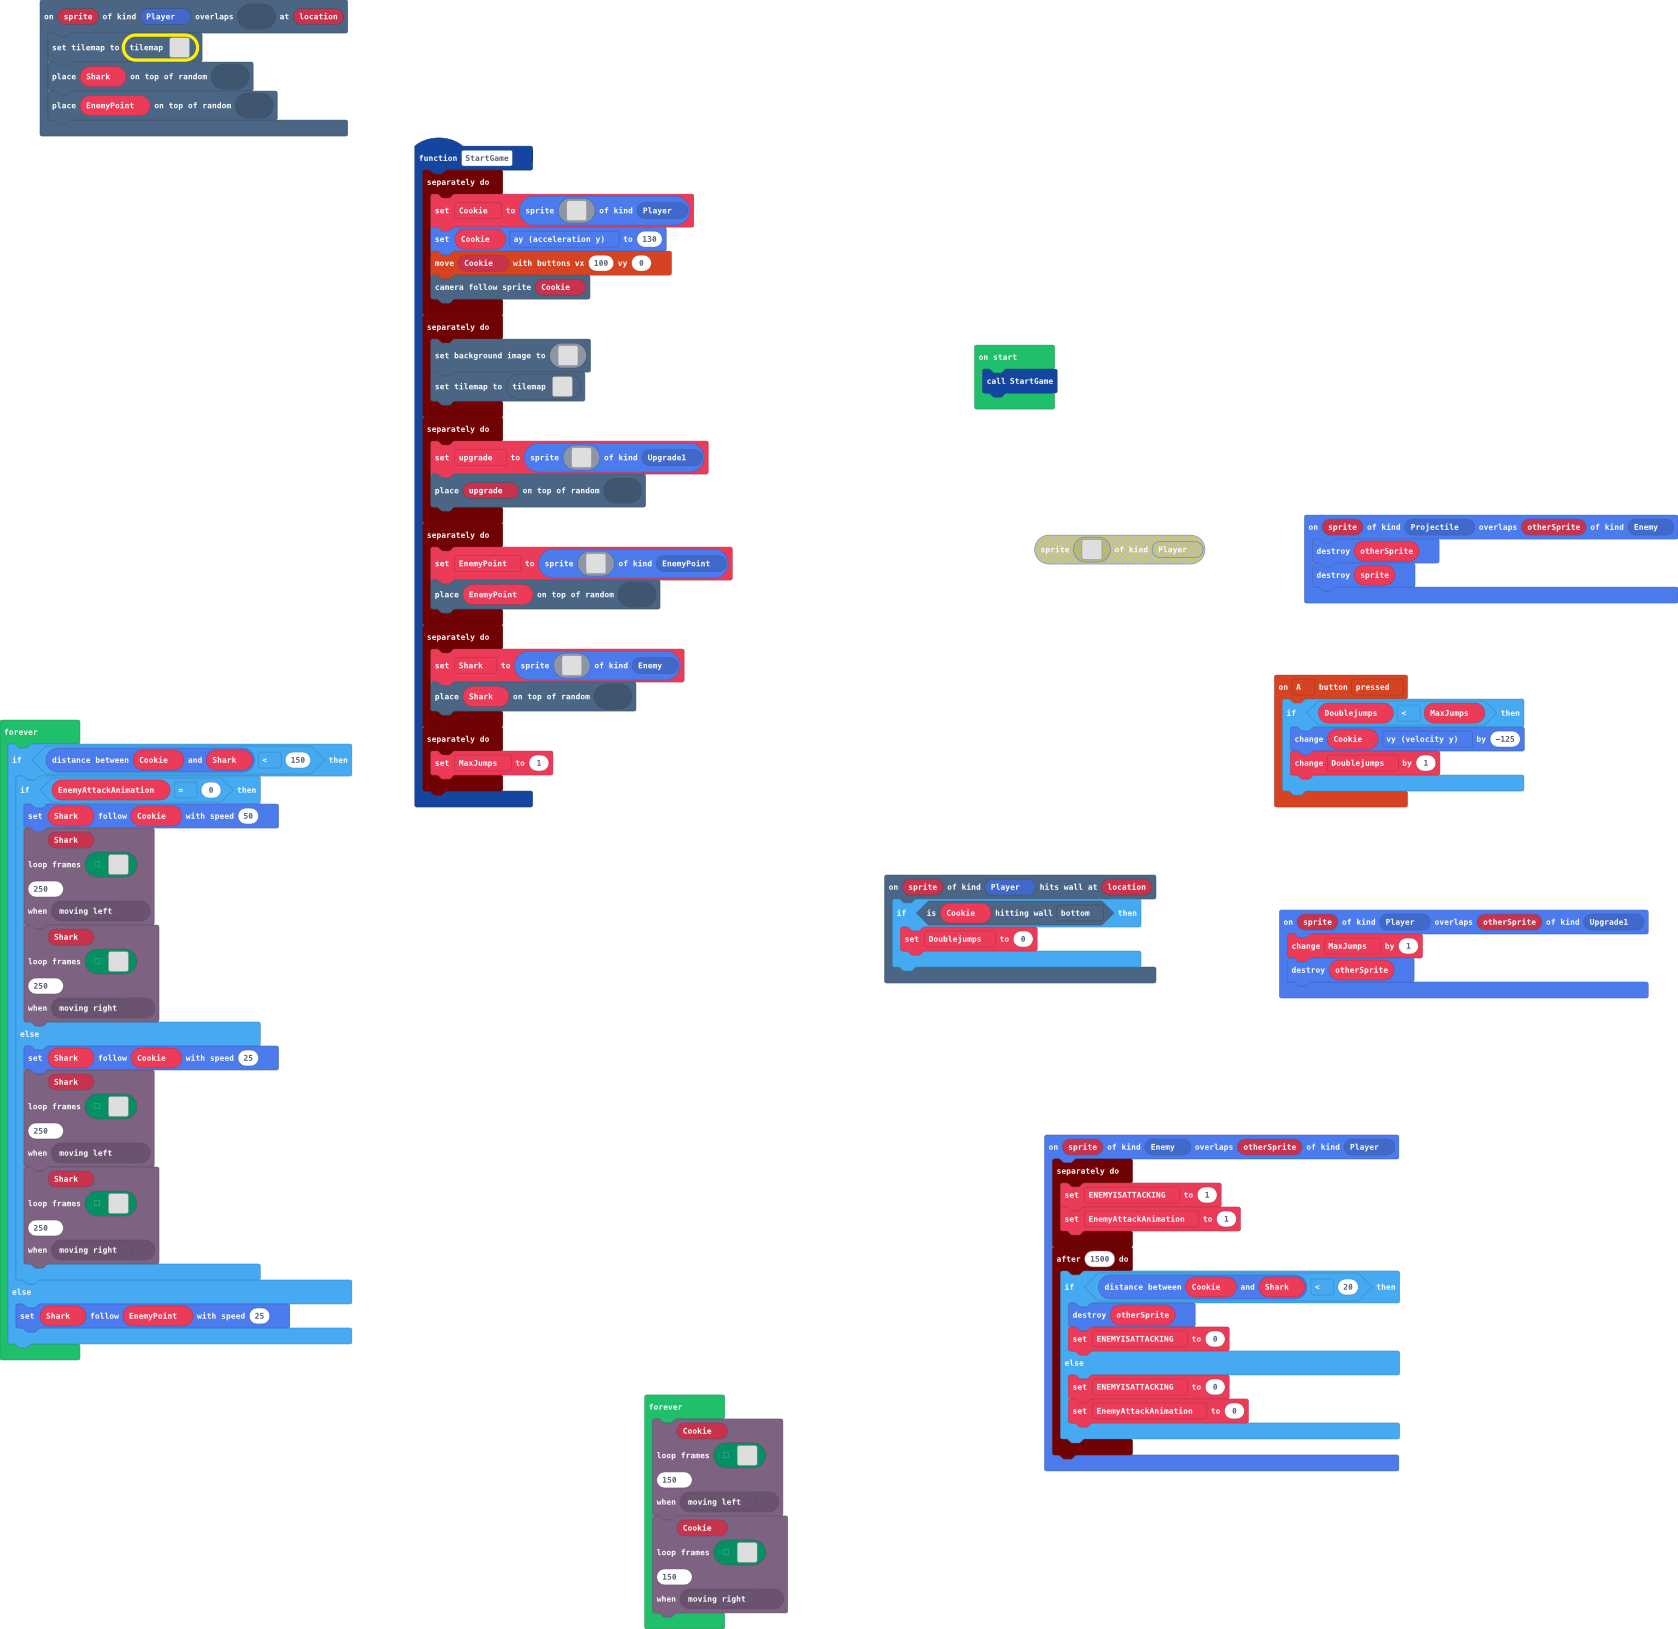
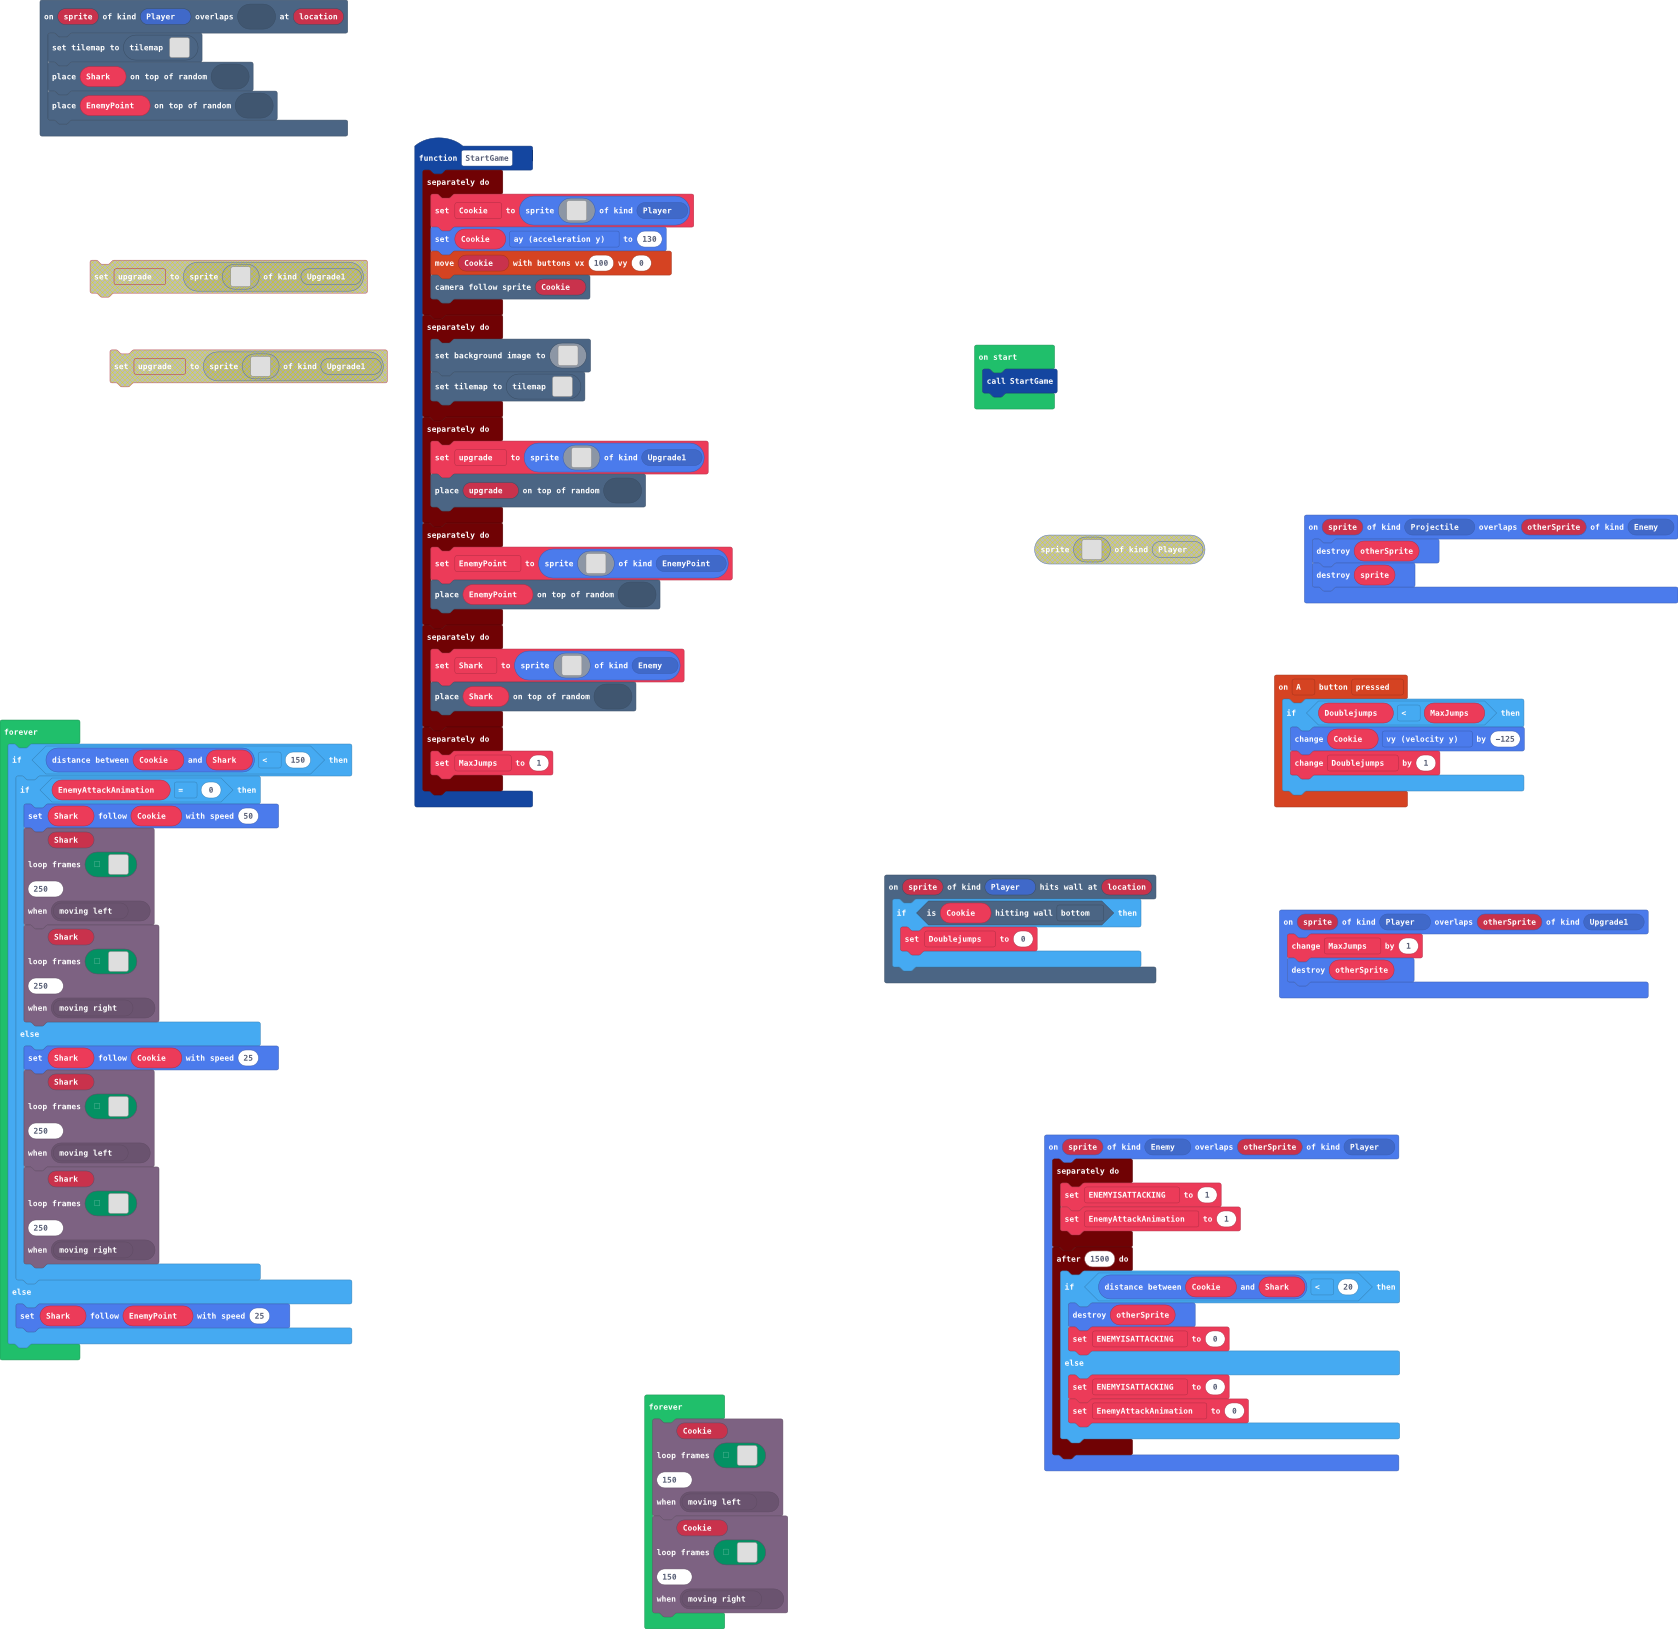
Update main.blocks, main.ts, tilemap.g.jres, tilemap.g.ts

Changed region(s): [[0.062, 0.2149, 0.2479, 0.2455], [0.031, 0.1535, 0.2169, 0.1842]]

diff --git a/tilemap.g.ts b/tilemap.g.ts
@@ -20,6 +20,8 @@ namespace myTiles {
     export const tile6 = image.ofBuffer(hex``);
     //% fixedInstance jres blockIdentity=images._tile
     export const tile9 = image.ofBuffer(hex``);
+    //% fixedInstance jres blockIdentity=images._tile
+    export const tile10 = image.ofBuffer(hex``);
 
     helpers._registerFactory("tilemap", function(name: string) {
         switch(helpers.stringTrim(name)) {
@@ -62,26 +64,26 @@ namespace myTiles {
 . . . . . . . . . . . . . . . . 
 `, [myTiles.transparency16], TileScale.Sixteen);
             case "level4":
-            case "level4":return tiles.createTilemap(hex`1000100000000000000000000000000000000000000000000000000000000000000000000000000000000000000000000000000000000000000000000000000000000000000000000000000000000000000000000000000000000000000000000000000000000000000000000000000000000000000000000000000000000000000000000000000000000000000000000000000000000000000000000000000000000000000000000000000000000000000000000000000000000000000000000000000000000000000000000000000000000000000000000000000000000000000000000000000000000000000000000000000000000000000000000000000000000000`, img`
-. . . . . . . . . . . . . . . . 
-. . . . . . . . . . . . . . . . 
-. . . . . . . . . . . . . . . . 
-. . . . . . . . . . . . . . . . 
-. . . . . . . . . . . . . . . . 
-. . . . . . . . . . . . . . . . 
-. . . . . . . . . . . . . . . . 
-. . . . . . . . . . . . . . . . 
-. . . . . . . . . . . . . . . . 
-. . . . . . . . . . . . . . . . 
-. . . . . . . . . . . . . . . . 
-. . . . . . . . . . . . . . . . 
-. . . . . . . . . . . . . . . . 
-. . . . . . . . . . . . . . . . 
-. . . . . . . . . . . . . . . . 
-. . . . . . . . . . . . . . . . 
-`, [myTiles.transparency16], TileScale.Sixteen);
+            case "level4":return tiles.createTilemap(hex`4000100000000000000000000000000000000000000000000000000000000000000000000000000000000000000000000000000000000000000000000000000000000000010101010101010101010101010101010101010101010101010101010101010101010101010101010101010101010101010101010101010101010101010101010000000000000000000000000000000000000000000000000000000000000000000000000000000000000000000000000000000000000000000000000000000000000000000000000000000000000000000000000000000000000000000000000000000000000000000000000000000000000000000000000000000000000000000000000000000000000000000000000000000000000000000000000000000000000000000000000000000000000000000000000000000000000000000000000101010101010101010101010101010101010101010101010101010101010101010101000000000000000000000000000000010101010101010101010101010100000000000000000000000000000000000000000000000000000000000000000000000000000000000000000000000000000000000000000000000000000000000000000000000000000000000000000000000000000000000000000000000000000000000000000000000000000000000000000000000000000000000000000000000000000000000000000000000000000000000000000000000000000000000000000000000000000000000000000000000000000000000000000000000000000000000000000000000000000000000000000000000000000000000000000000000000000000000000000000000000000000000000000000000000000000000000000000000000000000000000000000000000000000000000000000000000000000000000000000000000000000000000000000000000000000000000000101010101010101010101010101010101000000000000000001010101010101010101010101010101010000000000000000000000000000000000000000000000000000000000000000000000000000000000000000000000000000000000000000000000000000000000000000000000000000000000000000000000000000000000000000000000000000000000000000000000000000000000000000000000000000000000000000000000000000000000000000000000000000000000000000000000000000000000000000000000000000000000000000000000000000000000000000000000000000000000000000000000000000000000000000000001010101010101010101010101010101010101010101010101010101010101010101010101010101010101010101010101010101010101010101010101010101`, img`
+................................................................
+2222222222222222222222222222222222222222222222222222222222222222
+................................................................
+................................................................
+................................................................
+22222222222222222222222222222222222...............22222222222222
+................................................................
+................................................................
+................................................................
+................................................................
+................................................................
+22222222222222222........22222222222222222......................
+................................................................
+................................................................
+................................................................
+2222222222222222222222222222222222222222222222222222222222222222
+`, [myTiles.transparency16,myTiles.tile3], TileScale.Sixteen);
             case "level2":
-            case "level2":return tiles.createTilemap(hex`4000100000000000000000000000000000000000000000000000000000000000000000000000000000000000000000000000000000000000000000000000000000000000000000000000000000000000000000000000000000000000000000000000000000000000000000000000000000000000000000000000000000000000000000000000000000000000000000000000000000000000000000000000000000000000000000000000000000000000000004000000000000000000000000000000000000000000000000000000000000000000000000000000000000000000000000000000000000000000000000000000040000000000000000000000000000000000000000000000000000000000000000000000000000000000000000000000000000000000000000000000000000000400000000000000000000000000060000000000000000000000000000000000000000000000000000000000000000000000000000000000000000000000000004000000000000000000000000000000000002020202020202020202020202020202020202020202020000000000000002020204020202020202020202020202050202020202020202020202020202020202000000000000000000000000000000000000000000000000000000000000000000040000000000000000000000000000000000000000000000000000000000000000000000000000000000000000000000000000000000000000000000000000000400000000000000000300000000000000000000000000000000000000000000000000000000000000000000000000000000000000000000000000000000000004000000000000000000000000000000000000000000000000000000000000000000000000000000000000000000000000000000000000000000000000000000040000000000000000000000000000000000000000000000000000000000000000000000000000000000000000000000000000000000000000000000000000000400000000000000000000000000000000000000000000000000000000000002020202020202020202020000000000000202020202020202020202020202020205020200000000000000020202020202020202020202020202020202000000000000000000000000000000000000000000000000000000000000000000000000000000000000000000000000000000000000000100000000000000000000000000000000000000000000000000000000000000000000000000000000000000000000000000000000000000000000000000000000000000000000000000000002020202020202020202020202020202020202020202020202020202020202020202020202020202020202020202020202020202020202020202020202020202`, img`
+            case "level2":return tiles.createTilemap(hex`4000100001000000000000000000000000000000000000000000000000000000000000000000000000000000000000000000000000000000000000000000000000000000000000000000000000000000000000000000000000000000000000000000000000000000000000000000000000000000000000000000000000000000000000000000000000000000000000000000000000000000000000000000000000000000000000000000000000000000000004000000000000000000000000000000000000000000000000000000000000000000000000000000000000000000000000000000000000000000000000000000040000000000000000000000000000000000000000000000000000000000000000000000000000000000000000000000000000000000000000000000000000000400000000000000000000000000000000000000000000000006000000000000000000000000000000000000000000000000000000000000000000000000000004000000000000000000000000000000000002020202020202020202020202020202020202020202020000000000000002020204020202020202020202020202050202020202020202020202020202020202000000000000000000000000000000000000000000000000000000000000000000040000000000000000000000000000000000000000000000000000000000000000000000000000000000000000000000000000000000000000000000000000000400000100000000000300000000000000000000000000000000000000000000000000000000000000000000000000000000000000000000000000000000000004000000000000000000000000000000000000000000000000000000000000000000000000000000000000000000000000000000000000000000000000000000040000000000000000000000000000000000000000000000000000000000000000000000000000000000000000000000000000000000000000000000000000000400000000000000000000000000000000000000000000000000000000000002020202020202020202020000000000000202020202020202020202020202020205020200000000000000020202020202020202020202020202020202000000000000000000000000000000000000000000000000000000000000000000000000000000000000000000000000000000000000000000000000000000000000000000000000000000000000000000000000000000000000000000000000000000000000000000000000000000000000000000000000000000000000000000000002020202020202020202020202020202020202020202020202020202020202020202020202020202020202020202020202020202020202020202020202020202`, img`
 ................................................................
 ................................................................
 ..............................................2.................
@@ -98,26 +100,7 @@ namespace myTiles {
 ................................................................
 ................................................................
 2222222222222222222222222222222222222222222222222222222222222222
-`, [myTiles.transparency16,myTiles.tile1,myTiles.tile3,myTiles.tile2,myTiles.tile5,myTiles.tile7,myTiles.tile9], TileScale.Sixteen);
-            case "level5":
-            case "level5":return tiles.createTilemap(hex`1000100000000000000000000000000000000000000000000000000000000000000000000000000000000000000000000000000000000000000000000000000000000000000000000000000000000000000000000000000000000000000000000000000000000000000000000000000000000000000000000000000000000000000000000000000000000000000000000000000000000000000000000000000000000000000000000000000000000000000000000000000000000000000000000000000000000000000000000000000000000000000000000000000000000000000000000000000000000000000000000000000000000000000000000000000000000000`, img`
-. . . . . . . . . . . . . . . . 
-. . . . . . . . . . . . . . . . 
-. . . . . . . . . . . . . . . . 
-. . . . . . . . . . . . . . . . 
-. . . . . . . . . . . . . . . . 
-. . . . . . . . . . . . . . . . 
-. . . . . . . . . . . . . . . . 
-. . . . . . . . . . . . . . . . 
-. . . . . . . . . . . . . . . . 
-. . . . . . . . . . . . . . . . 
-. . . . . . . . . . . . . . . . 
-. . . . . . . . . . . . . . . . 
-. . . . . . . . . . . . . . . . 
-. . . . . . . . . . . . . . . . 
-. . . . . . . . . . . . . . . . 
-. . . . . . . . . . . . . . . . 
-`, [myTiles.transparency16], TileScale.Sixteen);
+`, [myTiles.transparency16,myTiles.tile1,myTiles.tile3,myTiles.tile2,myTiles.tile5,myTiles.tile7,myTiles.tile10], TileScale.Sixteen);
         }
         return null;
     })
@@ -143,6 +126,8 @@ namespace myTiles {
             case "tile6":return tile6;
             case "myTile7":
             case "tile9":return tile9;
+            case "myTile8":
+            case "tile10":return tile10;
         }
         return null;
     })

diff --git a/main.ts b/main.ts
@@ -13,11 +13,6 @@ controller.A.onEvent(ControllerButtonEvent.Pressed, function () {
         Doublejumps += 1
     }
 })
-scene.onOverlapTile(SpriteKind.Player, assets.tile`myTile7`, function (sprite, location) {
-    tiles.setCurrentTilemap(tilemap`level4`)
-    tiles.placeOnRandomTile(Shark, assets.tile`myTile`)
-    tiles.placeOnRandomTile(EnemyPoint, assets.tile`myTile`)
-})
 sprites.onOverlap(SpriteKind.Player, SpriteKind.Upgrade1, function (sprite, otherSprite) {
     MaxJumps += 1
     sprites.destroy(otherSprite)
@@ -36,6 +31,11 @@ sprites.onOverlap(SpriteKind.Enemy, SpriteKind.Player, function (sprite, otherSp
             EnemyAttackAnimation = 0
         }
     })
+})
+scene.onOverlapTile(SpriteKind.Player, assets.tile`myTile8`, function (sprite, location) {
+    tiles.setCurrentTilemap(tilemap`level4`)
+    tiles.placeOnRandomTile(Shark, assets.tile`myTile`)
+    tiles.placeOnRandomTile(EnemyPoint, assets.tile`myTile`)
 })
 function StartGame () {
     timer.background(function () {
@@ -257,10 +257,10 @@ sprites.onOverlap(SpriteKind.Projectile, SpriteKind.Enemy, function (sprite, oth
     sprites.destroy(sprite)
 })
 let upgrade: Sprite = null
-let EnemyAttackAnimation = 0
-let ENEMYISATTACKING = 0
 let EnemyPoint: Sprite = null
 let Shark: Sprite = null
+let EnemyAttackAnimation = 0
+let ENEMYISATTACKING = 0
 let MaxJumps = 0
 let Doublejumps = 0
 let Cookie: Sprite = null
